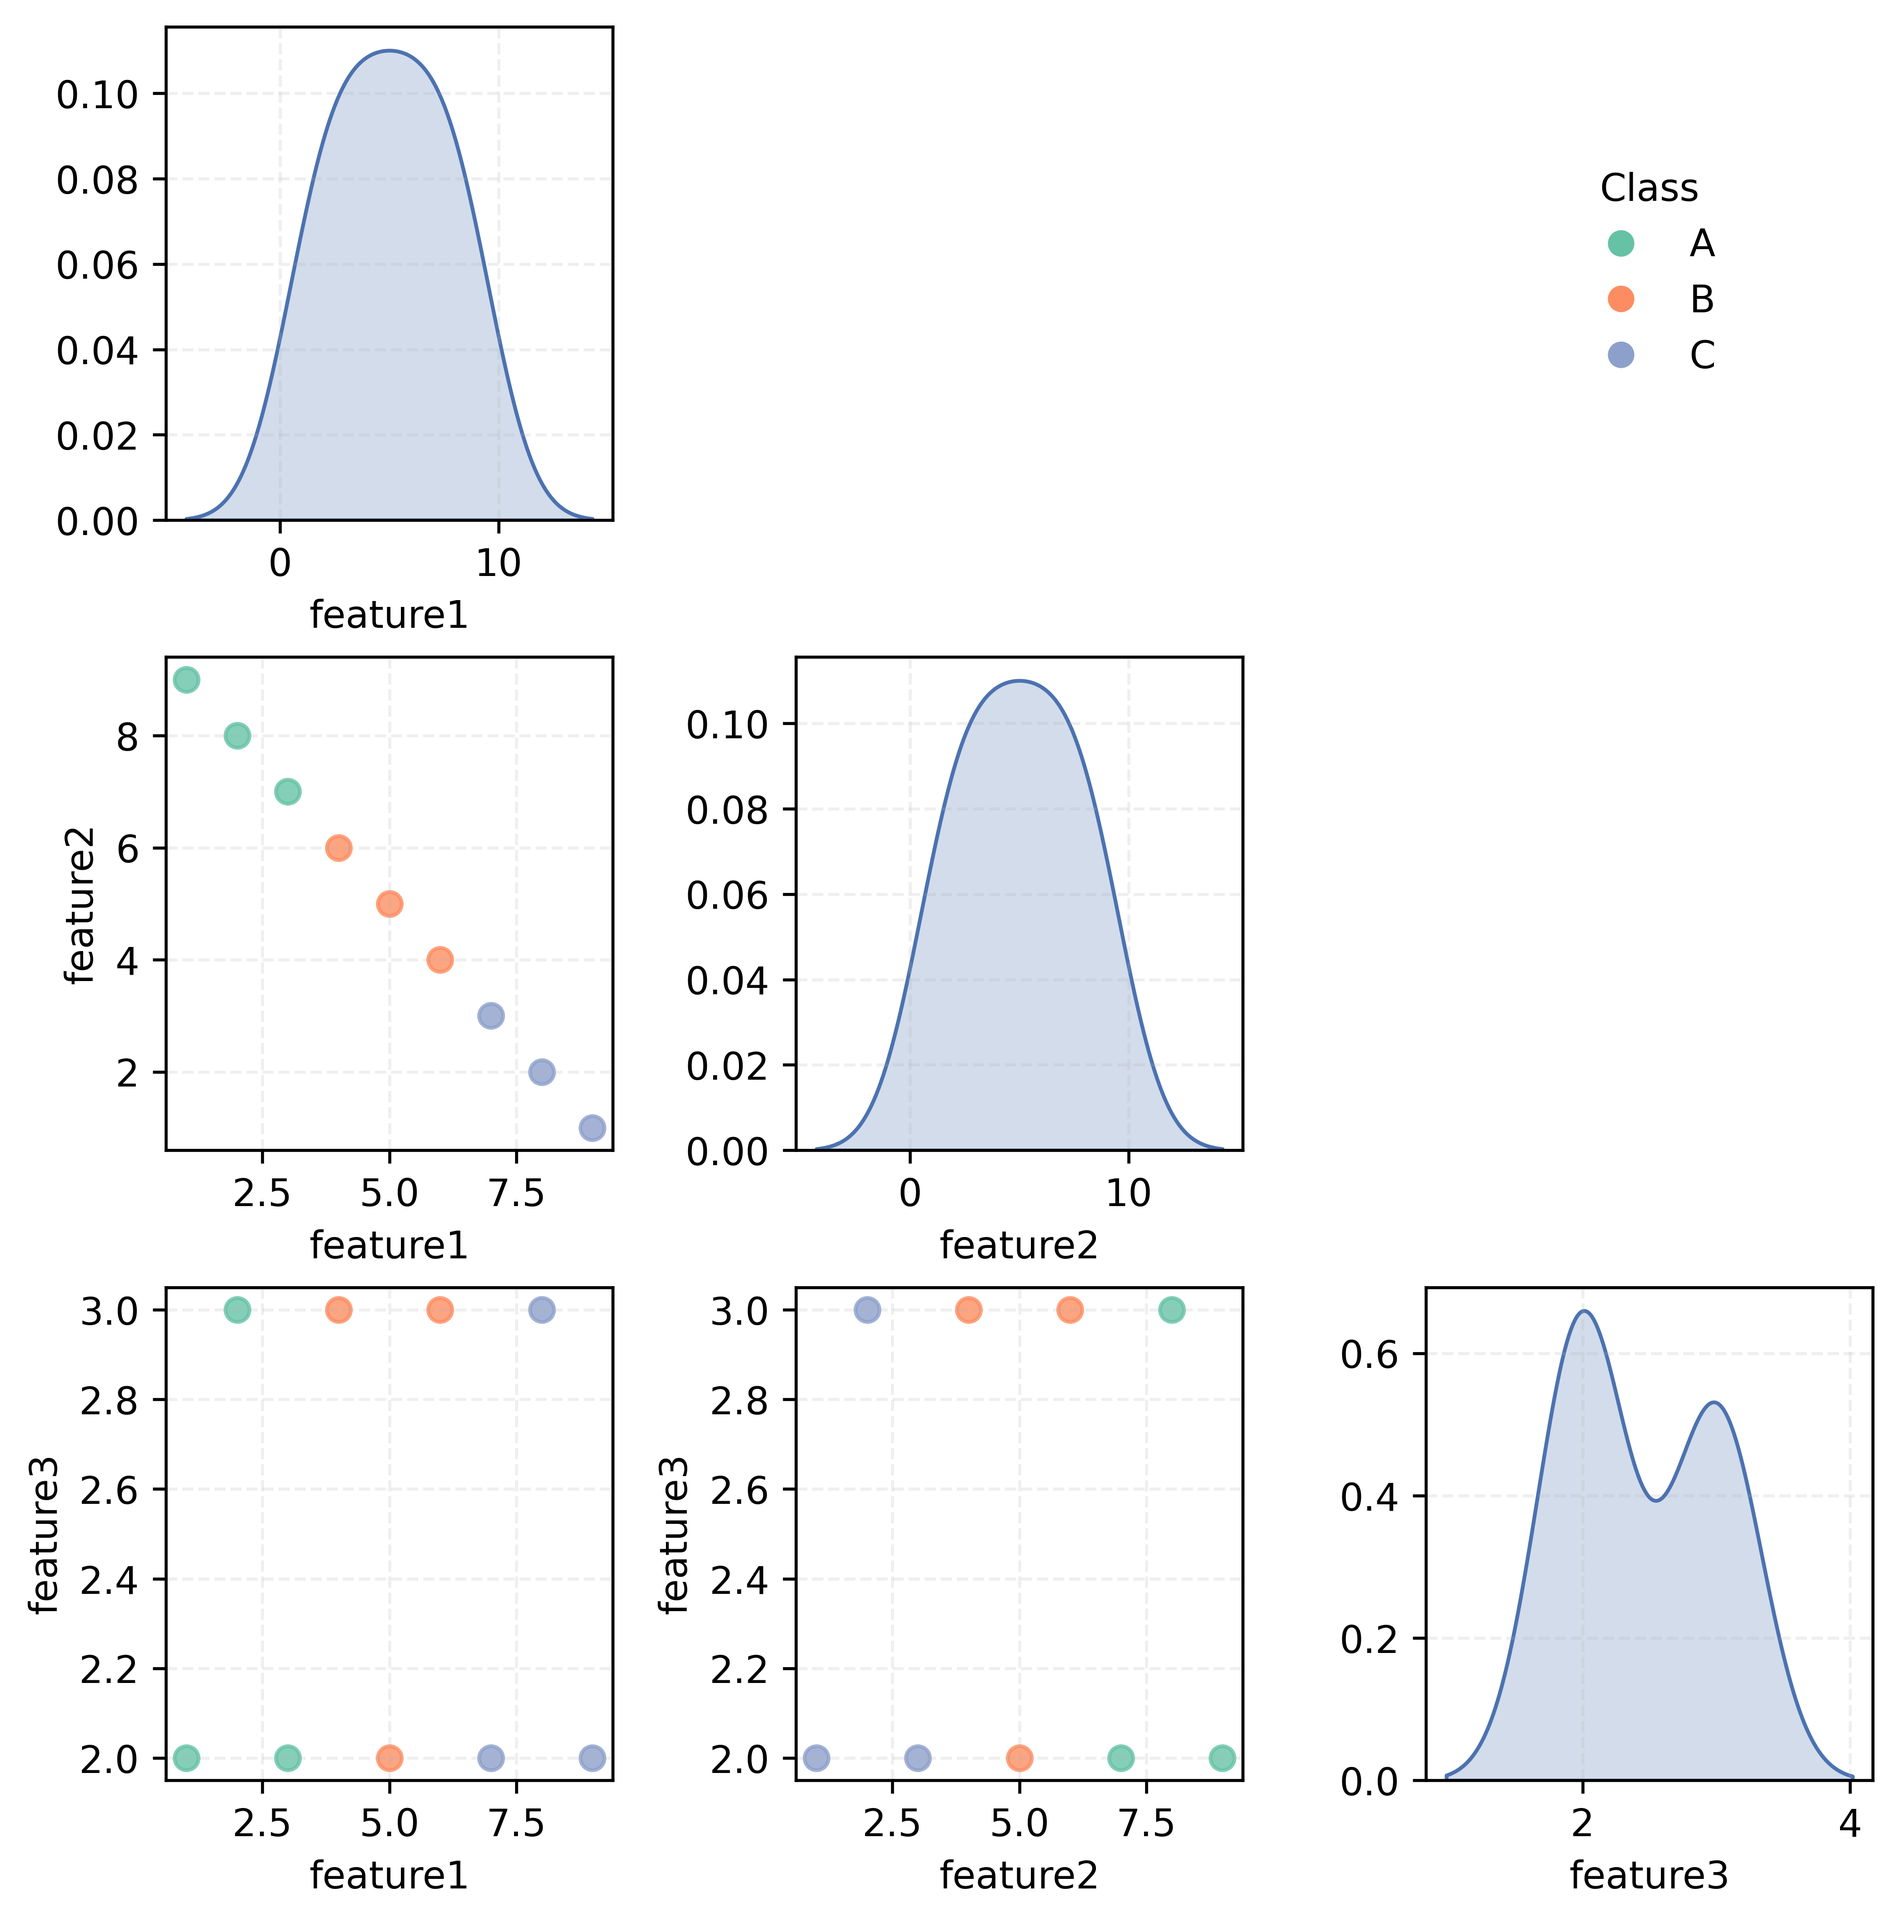
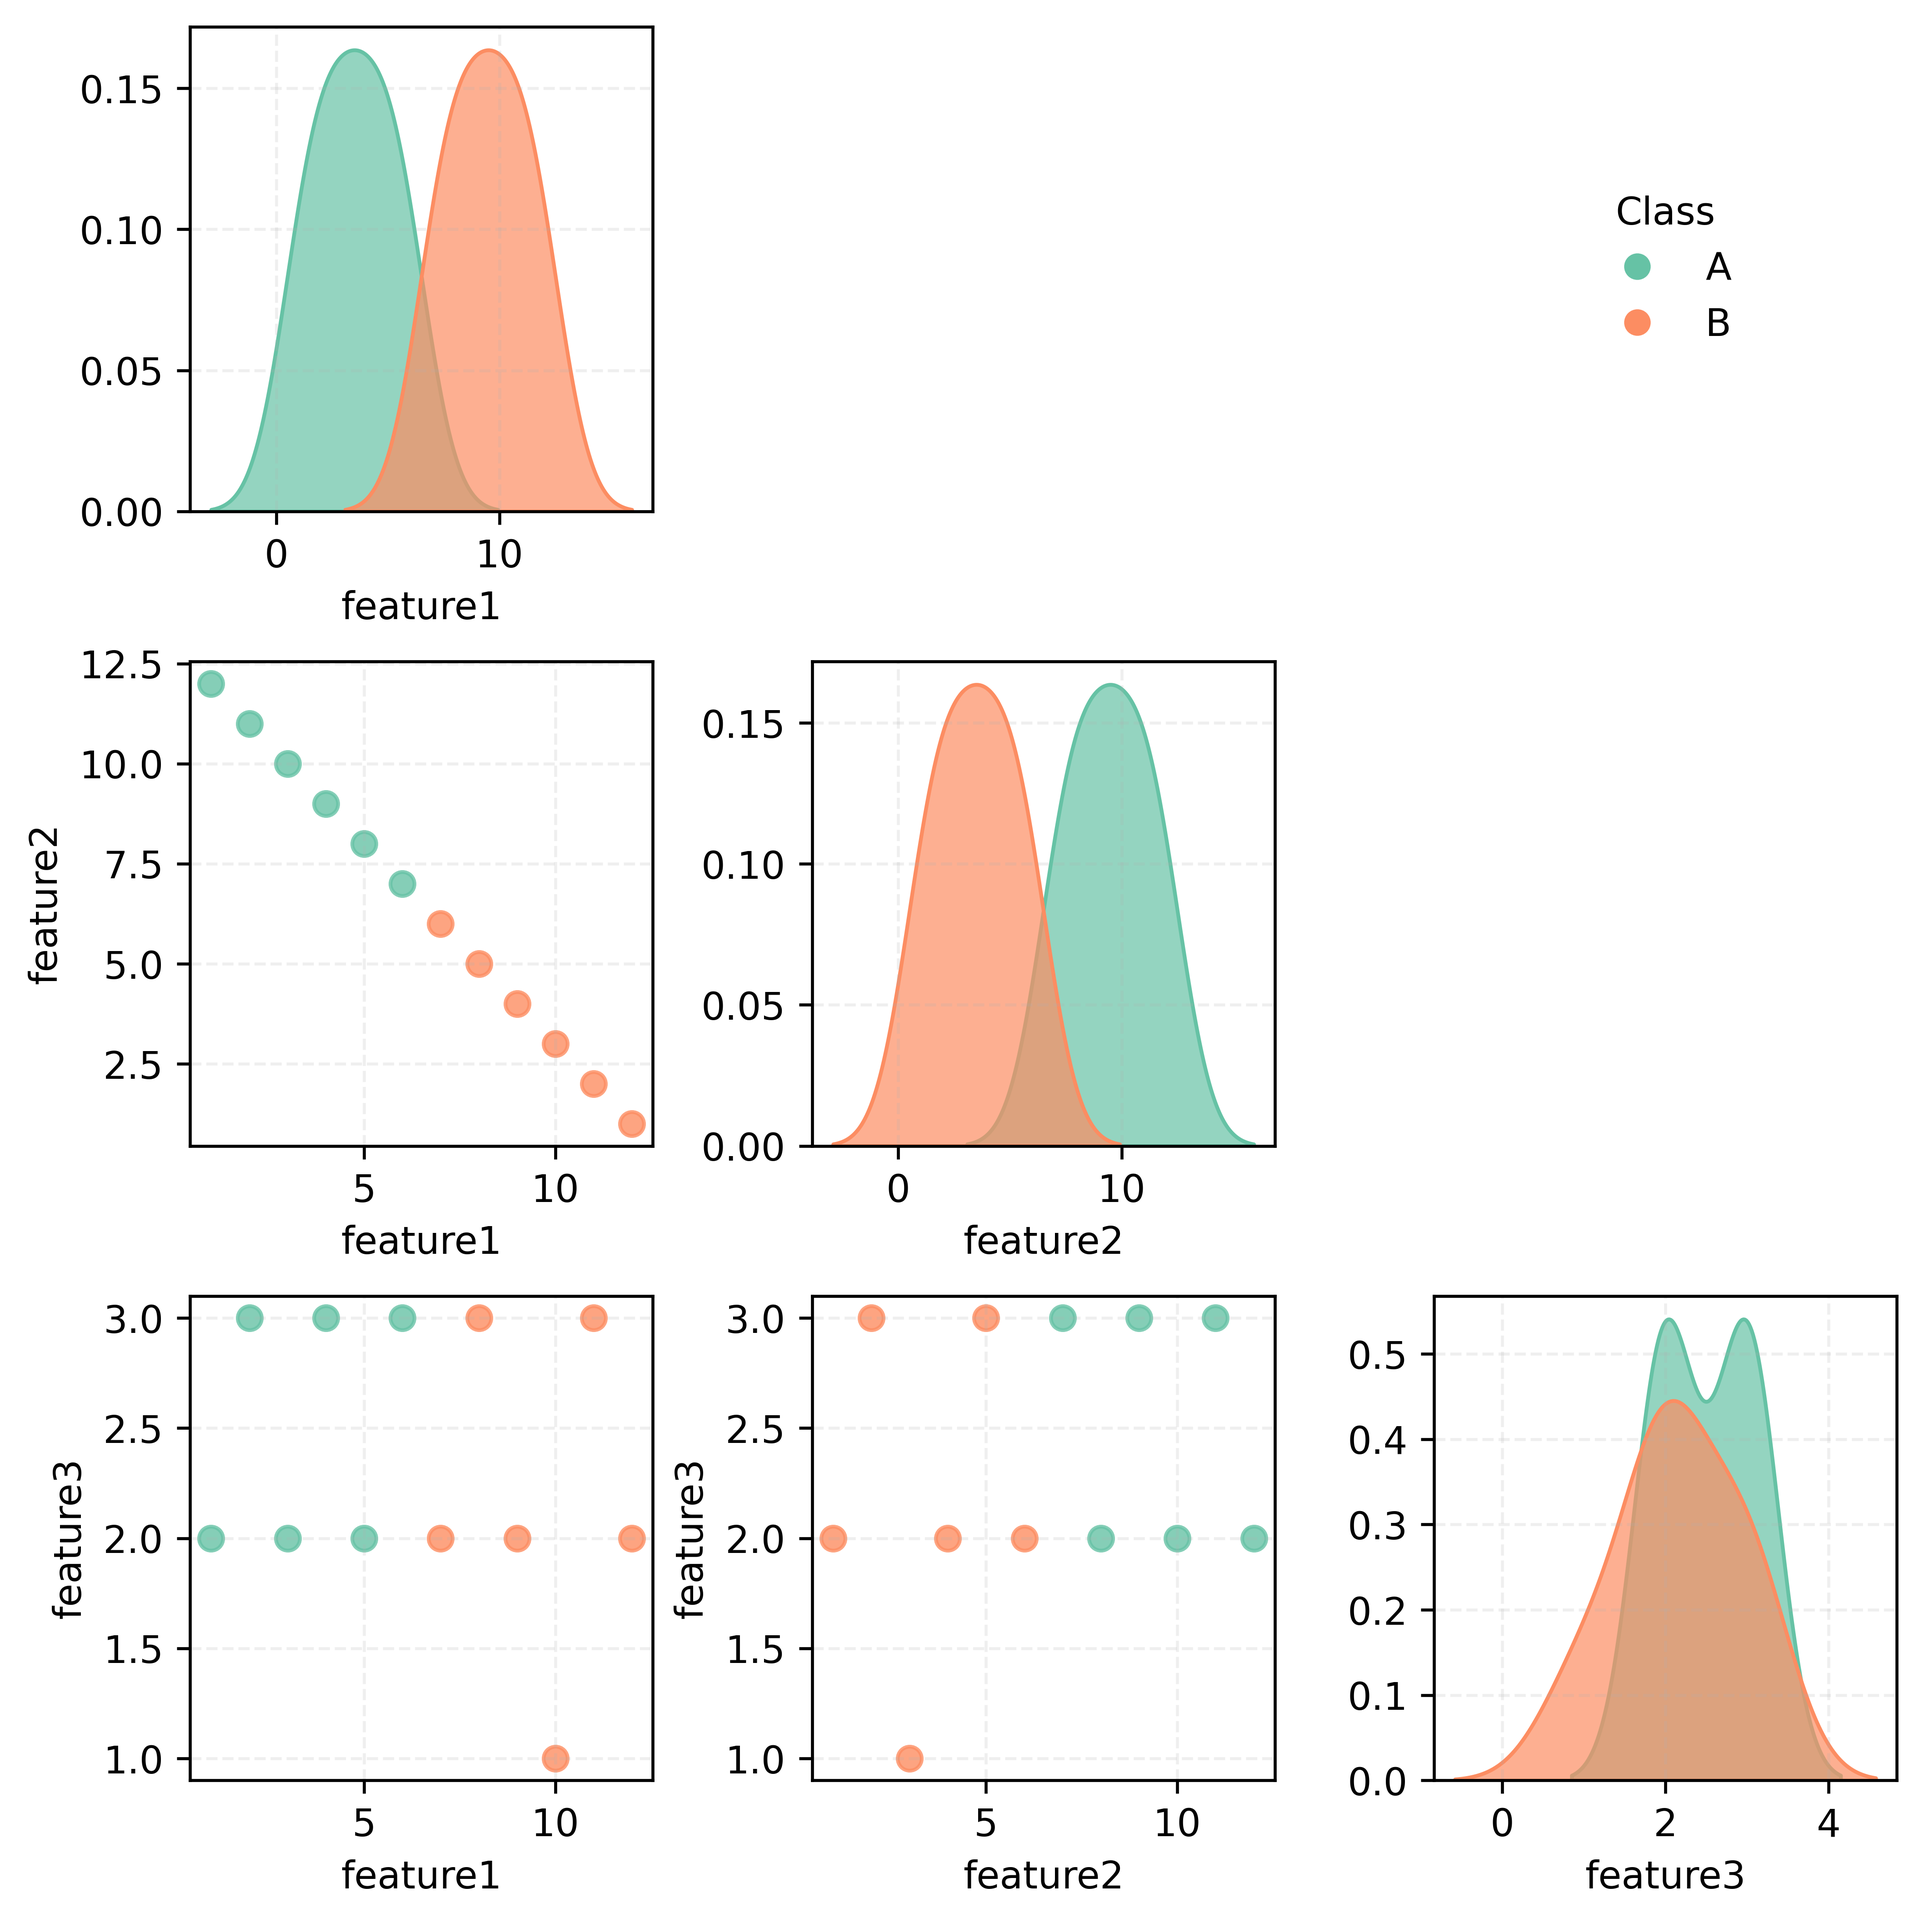
mejorando char_relation_class.py
Ahora  el kde es por classe

diff --git a/src/graph_generator_assistant/templates/chart_relation_class.py b/src/graph_generator_assistant/templates/chart_relation_class.py
@@ -7,16 +7,15 @@ from collections import OrderedDict
 
 def chart_relation_class(
         data = pd.DataFrame({
-            "feature1":[1,2,3,4,5,6,7,8,9],
-            "feature2":[9,8,7,6,5,4,3,2,1],
-            "feature3":[2,3,2,3,2,3,2,3,2]
+            "feature1":[1,2,3,4,5,6,7,8,9,10,11,12],
+            "feature2":[12,11,10,9,8,7,6,5,4,3,2,1],
+            "feature3":[2,3,2,3,2,3,2,3,2,1,3,2]
         }),
-        labels = ["A","A","A","B","B","B","C","C","C"],
-        palette=None, #palete = ["red","green","blue"]
+        labels = ["A","A","A","A","A","A","B","B","B","B","B","B"],
+        palette=None, #palete = ["red","blue"]
         diag_plot="kde",
         hist_bins=10,
         hist_alpha=0.7,
-        diagonal_color="#4C72B0",
         figsize=(7,7),
         point_size=40,
         point_alpha=0.8,
@@ -54,13 +53,18 @@ def chart_relation_class(
             ax = axes[i,j]
 
             if i == j:
-                # Diagonal: hist/KDE
-                if diag_plot == "hist":
-                    ax.hist(df[features[i]], bins=hist_bins, color=diagonal_color, alpha=hist_alpha)
-                elif diag_plot == "kde":
-                    sns.kdeplot(df[features[i]], ax=ax, fill=True, color=diagonal_color)
+                # Diagonal: hist/KDE por classe
+                for label_val in pd.Series(labels).unique():
+                    mask = (labels == label_val) if isinstance(labels, pd.Series) else [l==label_val for l in labels]
+                    if diag_plot == "hist":
+                        ax.hist(df.loc[mask, features[i]], bins=hist_bins, 
+                                color=palette[label_val], alpha=hist_alpha, label=str(label_val))
+                    elif diag_plot == "kde":
+                        sns.kdeplot(df.loc[mask, features[i]], ax=ax, fill=True, 
+                                    color=palette[label_val], alpha=hist_alpha, label=str(label_val))
                 ax.set_xlabel(features[i])
                 ax.set_ylabel('')
+                ax.legend().set_visible(False)  # opcional, limpa a legenda na diagonal
             elif i > j:
                 # Inferior: scatter colorido por label
                 for label_val in pd.Series(labels).unique():
